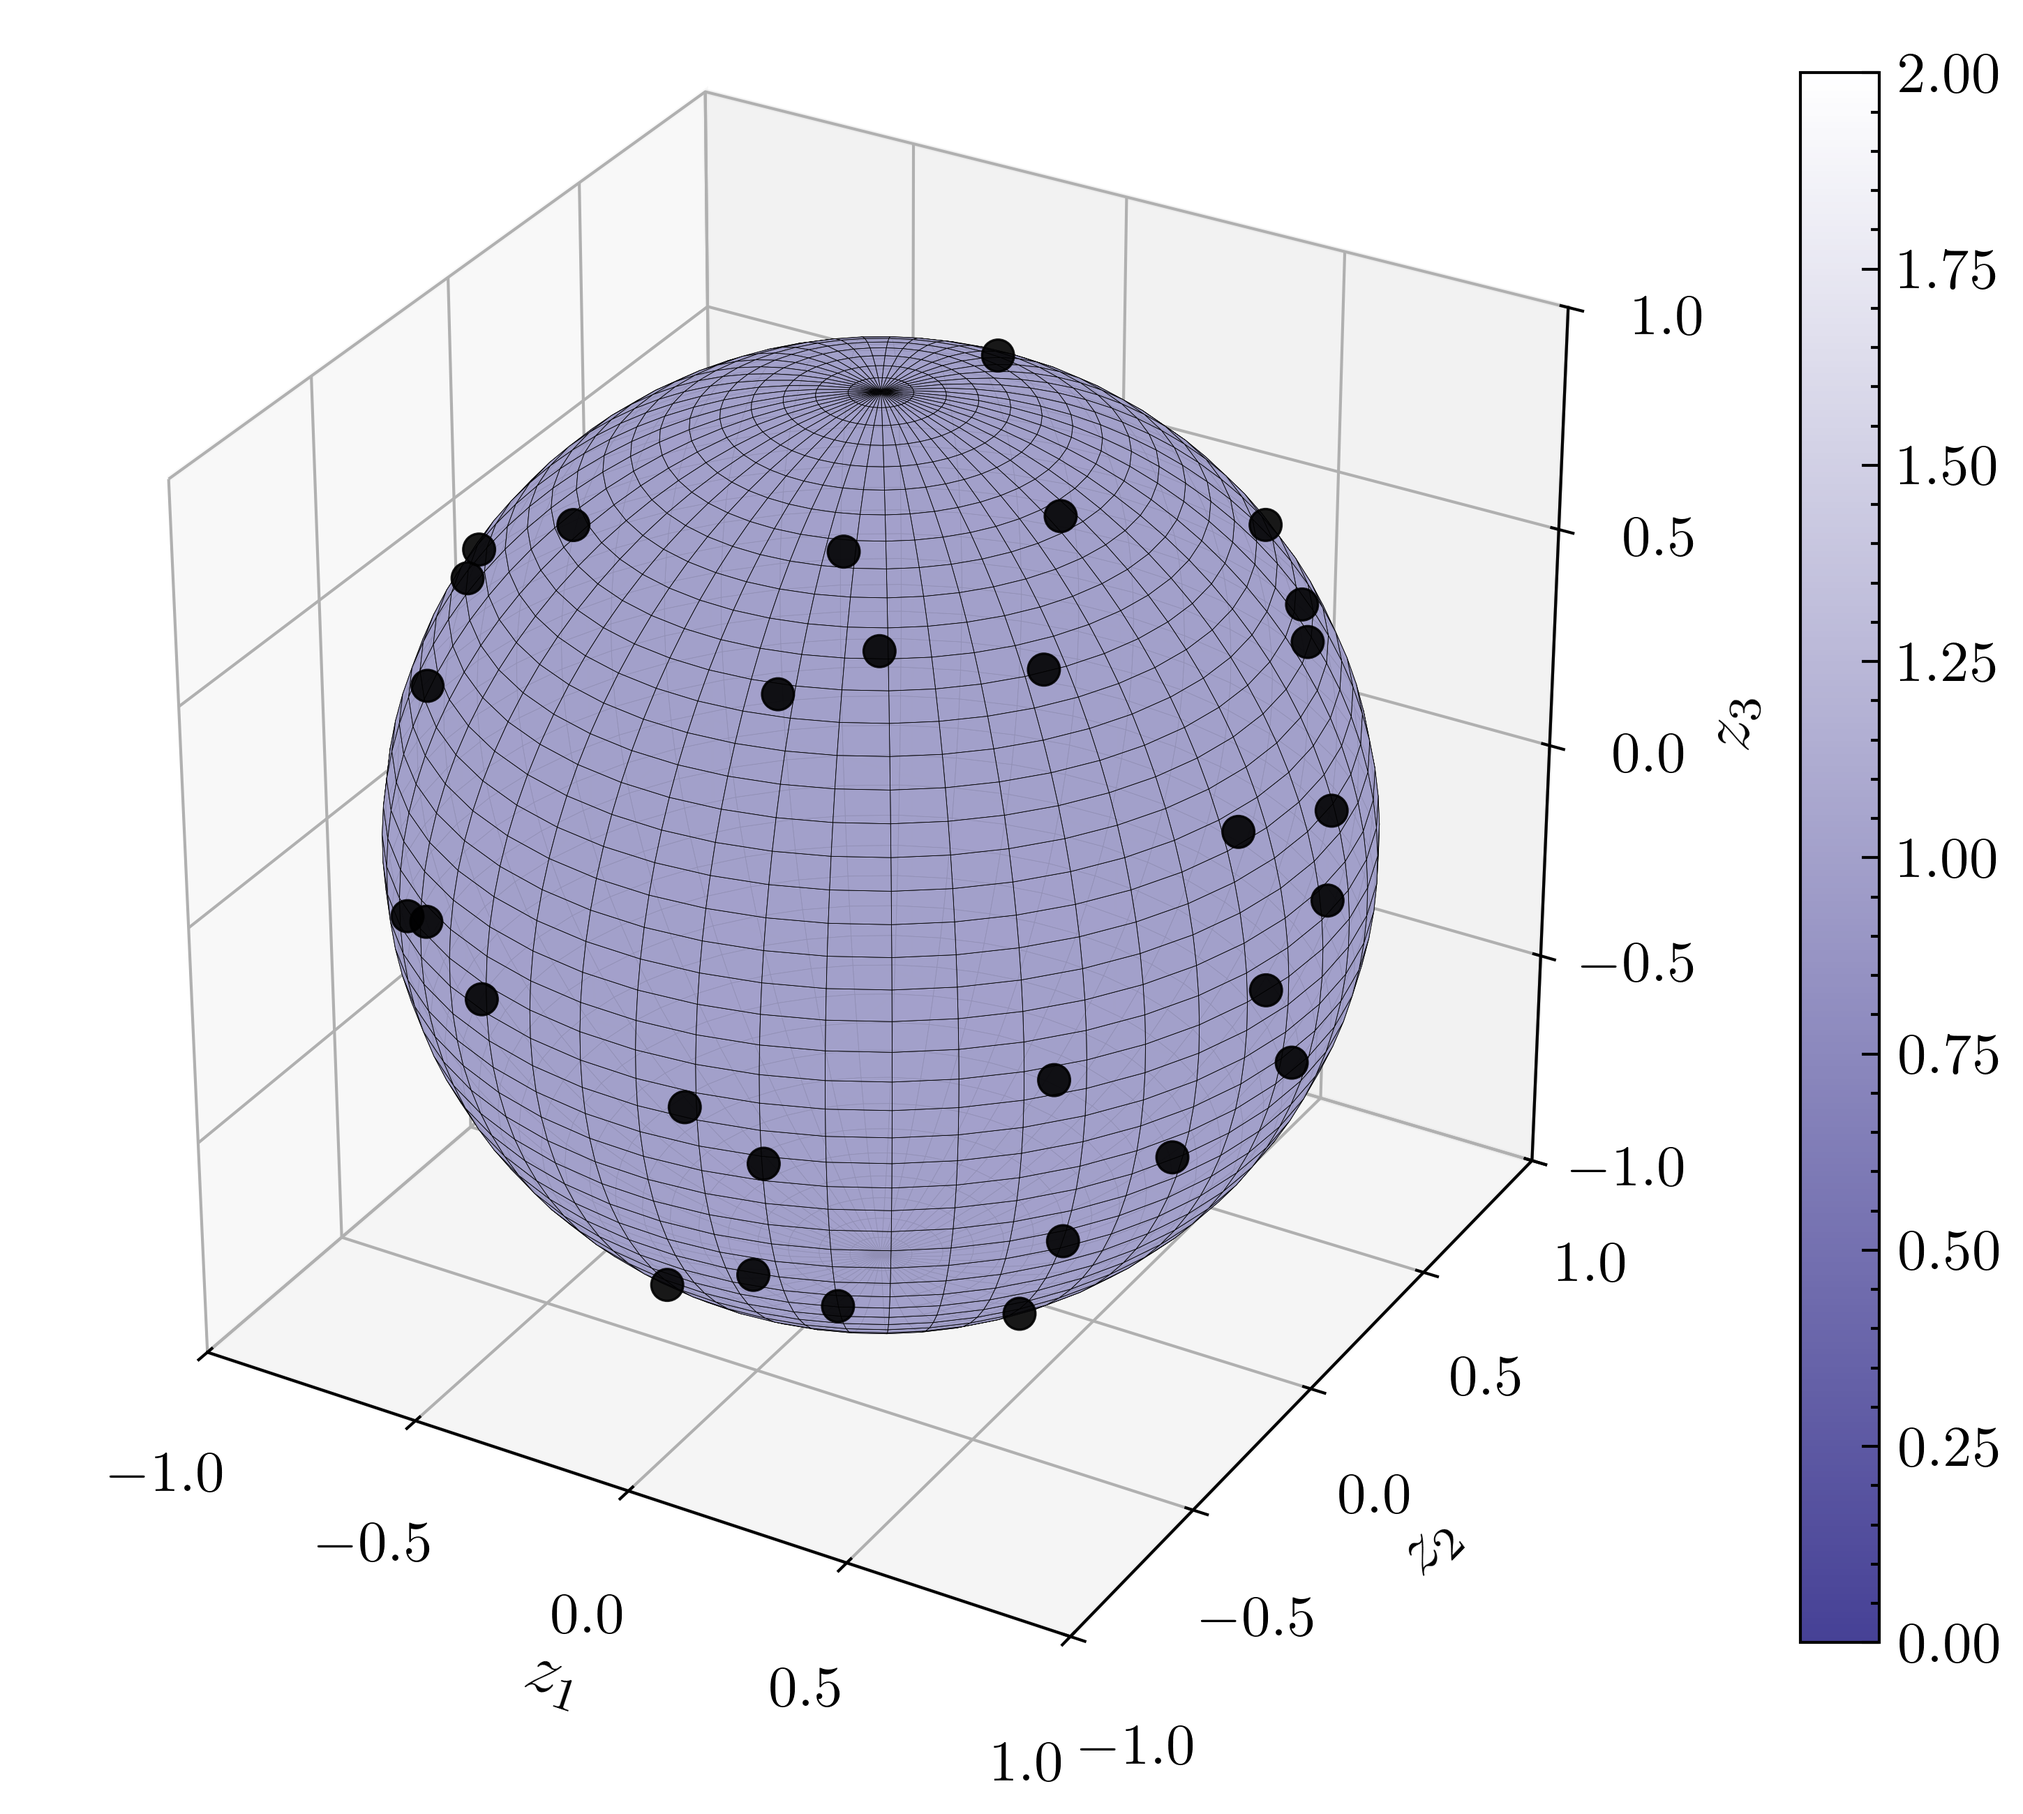
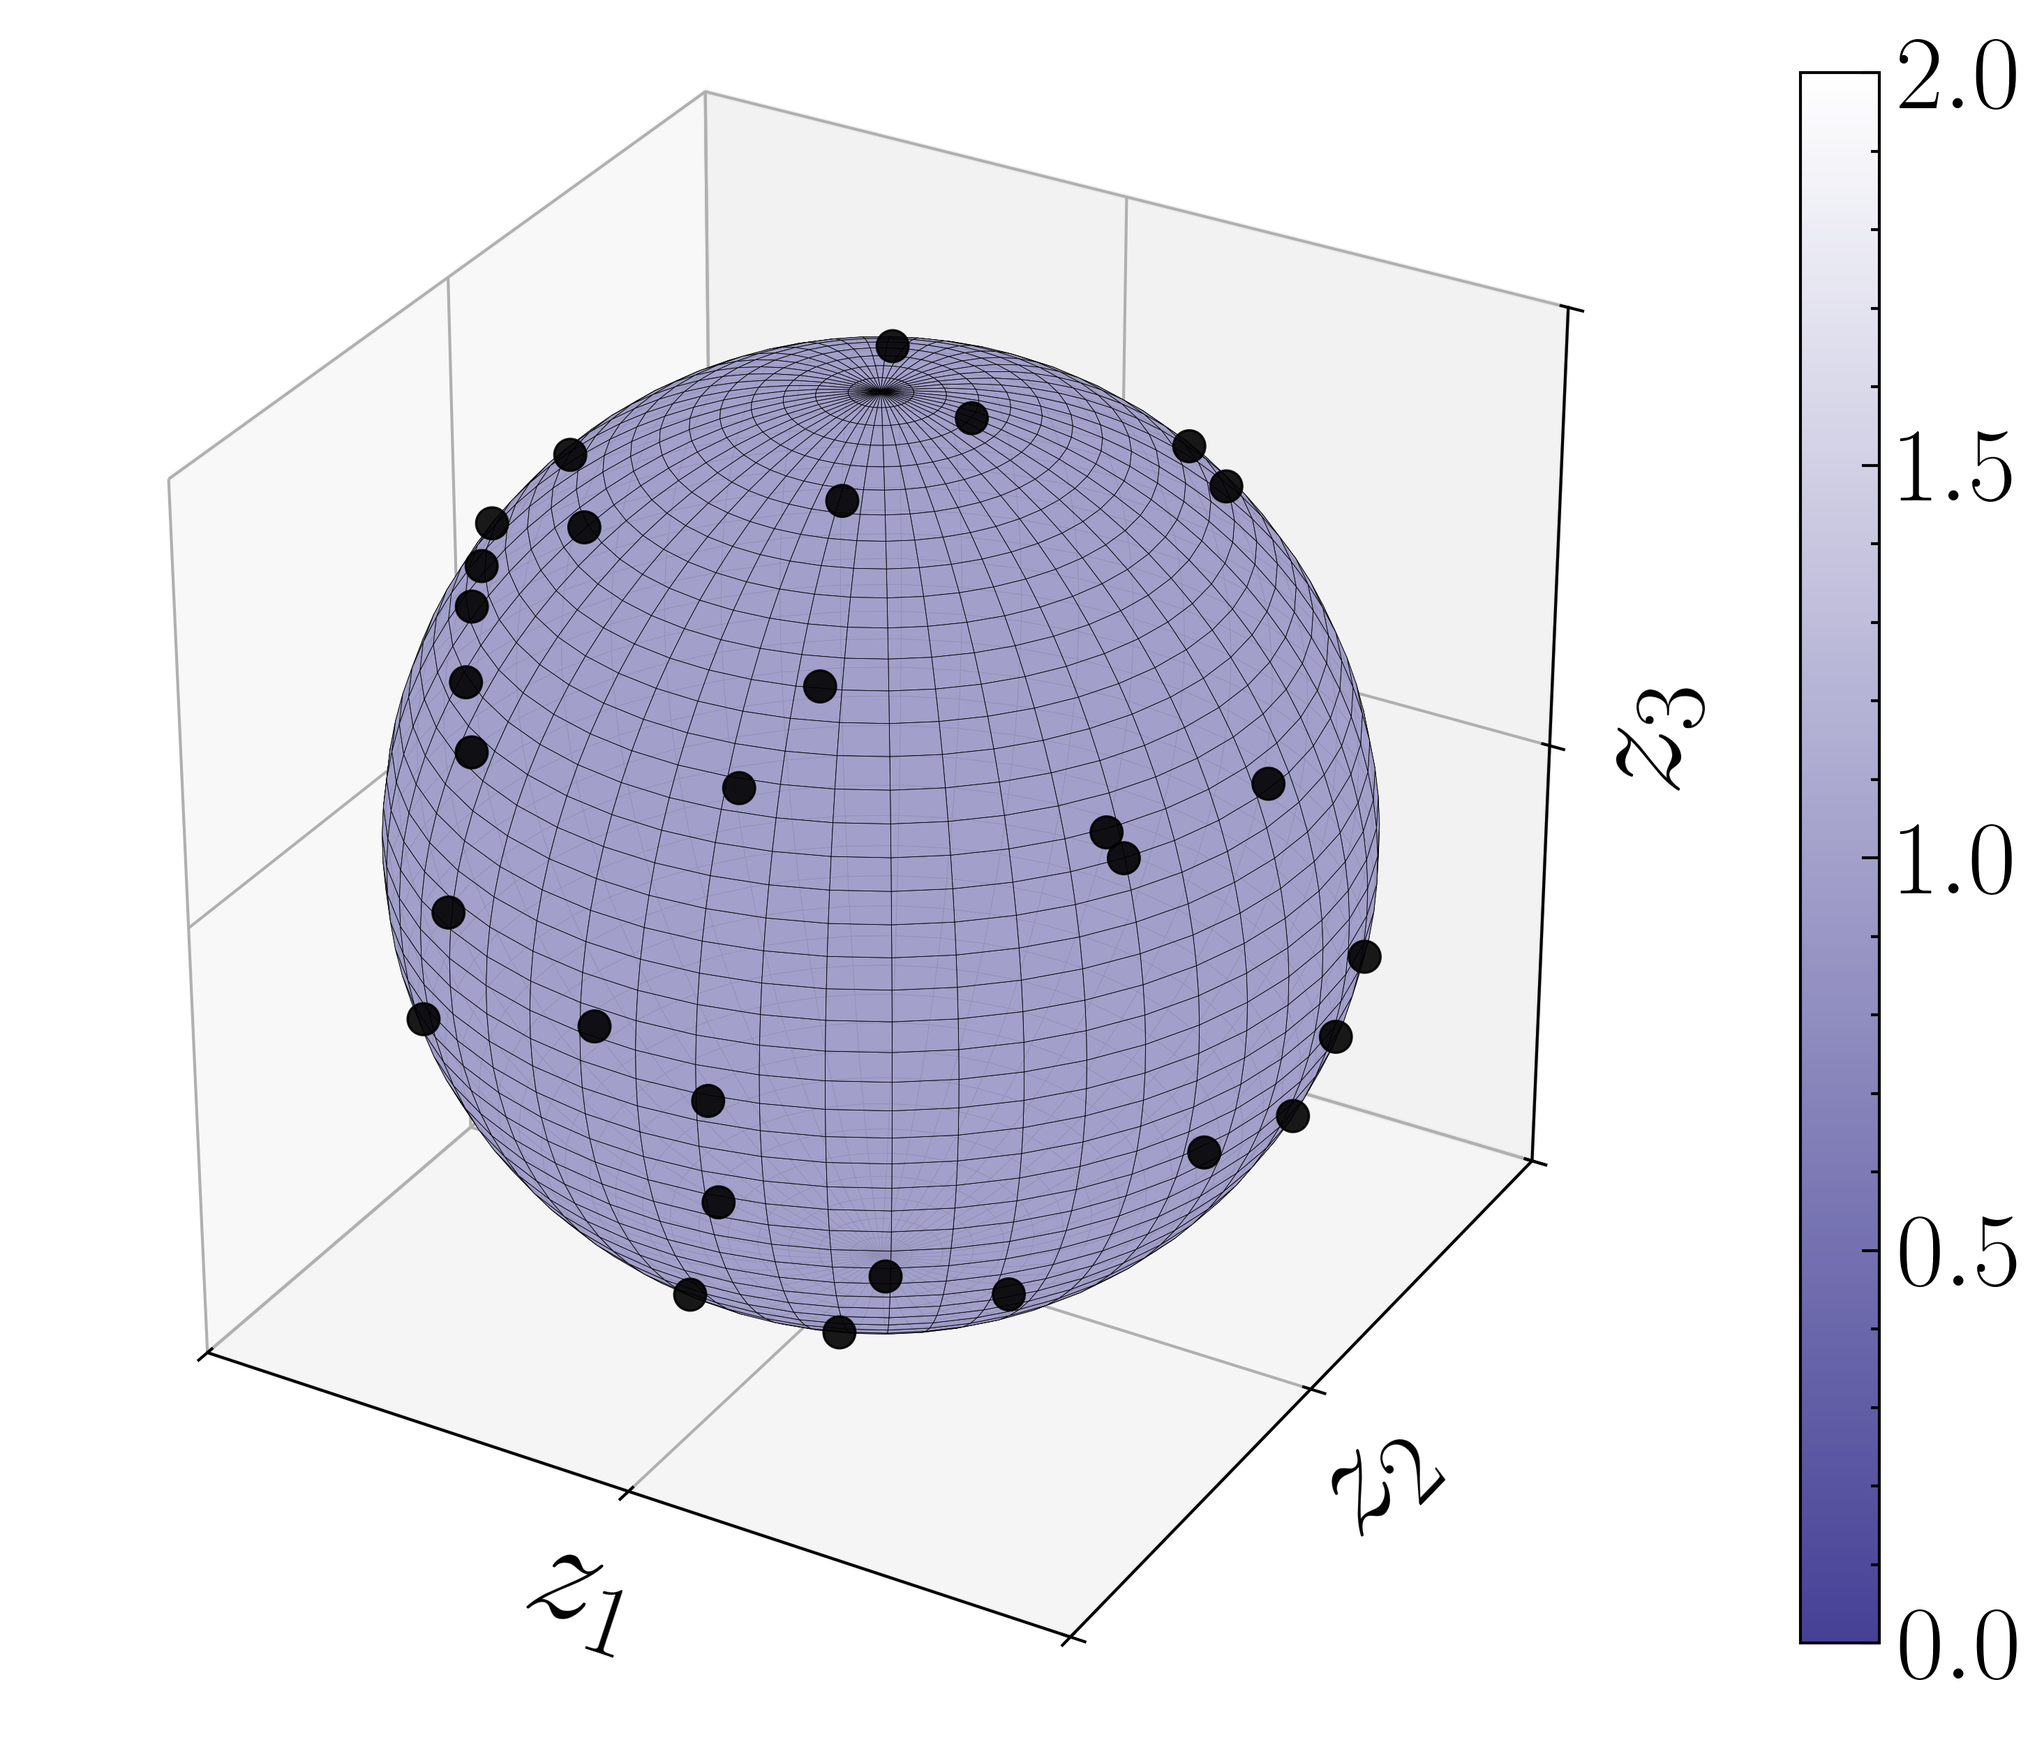
Improvements to plotting

diff --git a/tfdy/plotting.py b/tfdy/plotting.py
@@ -245,7 +245,8 @@ class PlotConf2D(PlotConf):
 
 class PlotConf3D(PlotConf):
     
-    def add_ax(self, n, computed_zorder=False):
+    def add_ax(self, n, computed_zorder=False, ticks=True, show_ticks = False, 
+               labelpad = -10, num_ticks = 3, axlabelfontsize=25):
         self.axs.append(self.fig.add_subplot(n, 
                                              projection='3d', 
                                              computed_zorder=computed_zorder
@@ -254,25 +255,35 @@ class PlotConf3D(PlotConf):
         self.axs[-1].axis('square')
         for i in range(3): 
             pre = 'set_' + chr(120 + i)
-            getattr(self.axs[-1], pre + 'ticks')(torch.linspace(-1,1,5))
+            if ticks:
+                getattr(self.axs[-1], pre + 'ticks')(torch.linspace(-1,1,num_ticks))
+            else:
+                getattr(self.axs[-1], pre + 'ticks')([])
+
+            if not show_ticks:
+                getattr(self.axs[-1], pre + 'ticklabels')('')
+
+
             getattr(self.axs[-1], pre + 'label')('$z_' + str(i + 1) + '$', 
-                                                 fontsize=12, labelpad=0)
+                                                 fontsize=axlabelfontsize, labelpad=labelpad)
             getattr(self.axs[-1], pre + 'lim')([-1., 1.])
 
         self.axs[-1].minorticks_off()
         
         
-    def init_axs(self, n, computed_zorder=False):
-        for i in range(n): self.add_ax(100 + 10 * n + (i+1), 
-                                       computed_zorder=computed_zorder)
+    def init_axs(self, n, **kwargs):
+        for i in range(n): self.add_ax(100 + 10 * n + (i+1), **kwargs)
         
     def plot_sphere(self, idx=0, **kwargs):
         plot_sphere(self.axs[idx], **kwargs)
         
-    def add_colorbar(self, idx=0, vmin=0, vmax=1, **kwargs):
+    def add_colorbar(self, idx=0, vmin=0, vmax=1, labelsize=18, 
+                     **kwargs):
         norm = mpl.colors.Normalize(vmin=vmin, vmax=vmax)
         sm = plt.cm.ScalarMappable(cmap=self.cmap, norm=norm)
-        plt.colorbar(sm, ax=self.axs[idx], **kwargs)
+        cbar = plt.colorbar(sm, ax=self.axs[idx], **kwargs)
+        cbar.ax.tick_params(labelsize=labelsize) 
+        return cbar
 
 def fill_between_3d(ax,x1,y1,z1,x2,y2,z2,mode=1,c='steelblue',alpha=0.6, zorder=0):
     

diff --git a/exps/min_on_sphere.py b/exps/min_on_sphere.py
@@ -10,7 +10,7 @@ import torch
 d = 3
 torch.manual_seed(42) # fix seed to get same initial states
 
-mode = 'Sd'
+mode = 'PPd'
 
 if mode == 'Id':
     n = 400
@@ -27,12 +27,14 @@ elif mode == 'Sd':
     D[1, 1] = 0
     n = 400
     tau = 0.75
-else:
+elif mode == 'VSd':
     D = torch.eye(d)
     D[1, 1] = 0
     D[0, 0] = 0
     n = 400
     tau = 0.75
+else:
+    raise ValueError('Unknown mode')
 
 #%%
 kwargs = {
@@ -52,7 +54,7 @@ x, hist = usa_flow(D, x=x, **kwargs)
 #%%
 plt.close('all')
 PC = PlotConf3D()
-PC.init_axs(1)
+PC.init_axs(1, labelpad=-10, show_ticks=False, axlabelfontsize=25)
 
 X = grid_x_sph(50**2)
 XX = X.reshape(-1,d)
@@ -81,7 +83,9 @@ for a, idx in ((0.9, idx1), (0.05, idx2)):
                 alpha=a,
                 )
 #PC.axs[0].view_init(elev=0, azim=-55, roll=0)
-PC.add_colorbar(shrink=0.75,vmin=zmin, vmax=zmax)
+cbar = PC.add_colorbar(shrink=0.75,vmin=zmin, vmax=zmax, 
+                orientation='horizontal', pad=-0.,)
+cbar.ax.tick_params(labelsize=18) 
 PC.save(name='Min'+mode)
 #plt.show()
 # %%

diff --git a/exps/max_on_sphere_nd.py b/exps/max_on_sphere_nd.py
@@ -17,17 +17,22 @@ kwargs = {
     'sigma':0.
 }
 
-mode = 'NonId'
+mode = 'NonId2'
 
 if mode == 'Id':
     torch.manual_seed(142)
     D = -torch.eye(d)
     reps = 6
-else:
-    D = torch.eye(d)
+elif mode == 'NonId':
+    D = -torch.eye(d)
     D[-1,-1] = -4
     D[-2,-2] = -3
     reps = 100
+elif mode == 'NonId2':
+    D = -torch.eye(d)
+    D[-1,-1] = 0
+    D[-2,-2] = 0
+    reps = 10
     
 xall = []
 csall = []

diff --git a/exps/min_density.py b/exps/min_density.py
@@ -60,6 +60,7 @@ ax.set_zticks([])
 ax.minorticks_off()
 ax.set_xlabel(r'$\varphi$', labelpad=-15, rotation = 0, fontsize=15)
 ax.set_ylabel(r'$\varepsilon$', labelpad=-15, rotation = 0, fontsize=15)
+ax.set_zlabel(r'Density $m$', labelpad=-15, rotation = 0, fontsize=12)
 
 
 for i in range(Ws.shape[0]):

diff --git a/exps/max_on_sphere.py b/exps/max_on_sphere.py
@@ -7,7 +7,7 @@ import torch
 
 d = 3
 
-mode = 'Id'
+mode = 'NonId'
 
 if mode == 'Id':
     n = 1
